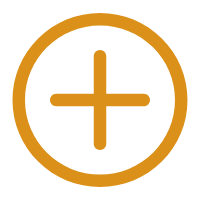
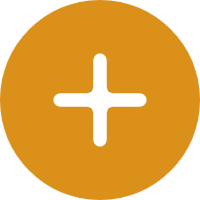
1

diff --git a/app.js b/app.js
@@ -1,7 +1,64 @@
 //app.js
 App({
   onLaunch: function() {
-  
+    this.hideTabbar()
+  },
+  hideTabbar: function() {
+    wx.hideTabBar({
+      fail: function() {
+        setTimeout(function() {
+          wx.hideTabBar()
+        }, 500)
+      }
+    })
+  },
+  getSystemInfo: function() {
+    let that = this;
+    wx.getSystemInfo({
+      success: function(res) {
+        that.globalData.systemInfo = res;
+      },
+    })
+  },
+  editTabbar: function() {
+    let tabbar = this.globalData.tabBar;
+    let currentPages = getCurrentPages();
+    let _this = currentPages[currentPages.length - 1]
+    let pagePath = _this.route
+    if (pagePath.indexOf('/') != 0) {
+      pagePath = '/' + pagePath
+    }
+    for (let i in tabbar.list) {
+      tabbar.list[i].selected = false;
+      if (tabbar.list[i].pagePath == pagePath) {
+        tabbar.list[i].selected = true
+      }
+    }
+    _this.setData({
+      tabbar: tabbar
+    })
+  },
+  globalData: {
+    systemInfo: null,
+    tabBar: {
+      "backgroundColor": "#ffffff",
+      "color": "#979795",
+      "selectedColor": "#1c1c1b",
+      "list": [{
+          "pagePath": "/pages/index/index",
+          "text": "时间轴"
+        },
+        {
+          "pagePath": "/pages/add/add",
+          "text": "添加",
+          "iconPath": "/images/addition.png",
+          "isSpecial": true
+        },
+        {
+          "pagePath": "/pages/me/me",
+          "text": "Me"
+        }
+      ]
+    }
   }
-
 })

diff --git a/tabbarComponent/tabbar.js b/tabbarComponent/tabbar.js
@@ -1,3 +1,4 @@
+const app = getApp();
 Component({
   properties: {
     tabbar: {
@@ -5,7 +6,7 @@ Component({
       value: {
         "backgroundColor": "#ffffff",
         "color": "#979795",
-        "selectedColor": "#db9019",
+        "selectedColor": "#1c1c1b",
         "list": [{
             "pagePath": "pages/index/index",
             "text": "时间轴"
@@ -13,6 +14,7 @@ Component({
           {
             "pagePath": "pages/add/add",
             "text": "添加",
+            "iconPath": "images/addition.png",
             "isSpecial": true
           },
           {
@@ -23,5 +25,8 @@ Component({
       }
 
     }
+  },
+  data: {
+   // isIphoneX: app.globalData.systemInfo.model.includes('iPhone X')
   }
 })

diff --git a/pages/index/index.js b/pages/index/index.js
@@ -1,3 +1,4 @@
+const app = getApp();
 Page({
 
   /**
@@ -7,6 +8,7 @@ Page({
     list: [],
     fold: [],
     ScrollNum: 0,
+    tabbar: {},
     fixTop: '',
     fixBottom: '',
     toView: '',
@@ -17,13 +19,8 @@ Page({
   },
 
 
-  onShow: function() {
-
-
-
-
-
-
+  onLoad: function() {
+    app.editTabbar()
   },
   onReady: function() {
     this.setData({

diff --git a/pages/me/me.js b/pages/me/me.js
@@ -1,10 +1,13 @@
+const app = getApp();
 Page({
   data: {
     weeklist: ['Su', 'Mo', 'Tu', 'We', 'Th', 'Fr', 'Sa'],
     cur_month: 0,
-    cur_year: 0
+    cur_year: 0,
+    tabbar: {}
   },
   onLoad: function() {
+    app.editTabbar();
     var that = this;
     var cur_year = new Date().getFullYear();
     var cur_month = new Date().getMonth();
